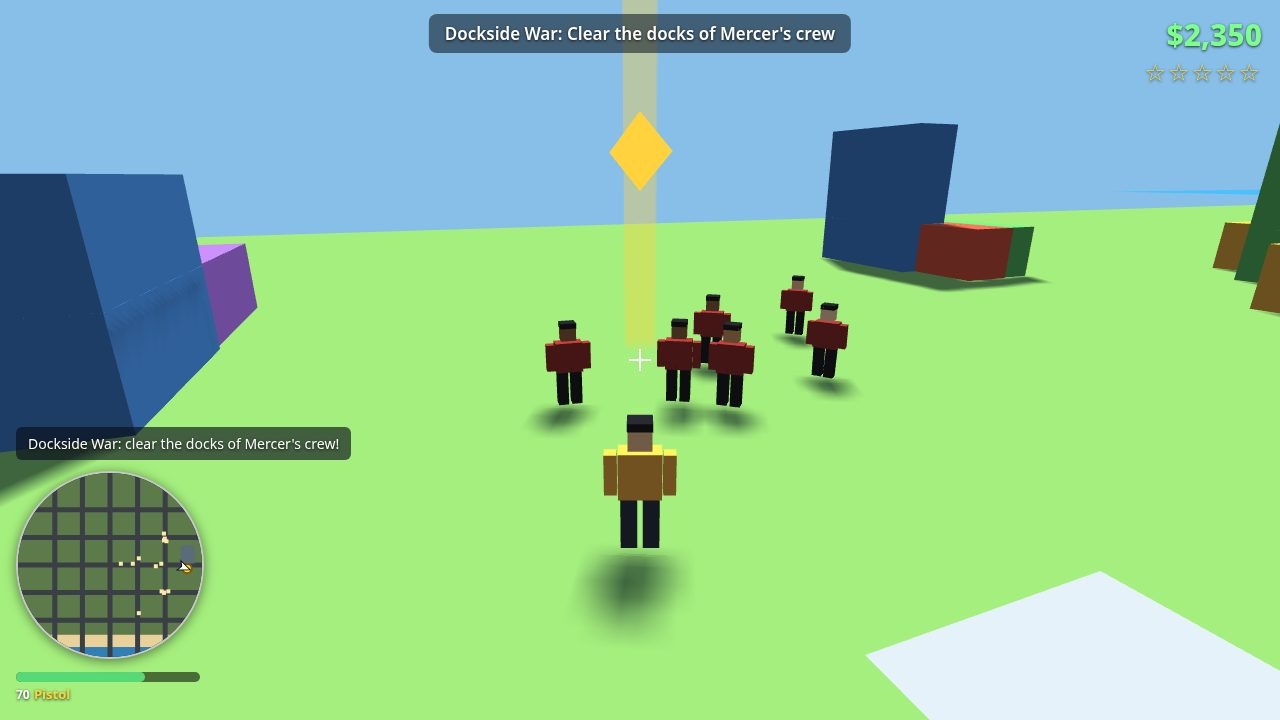
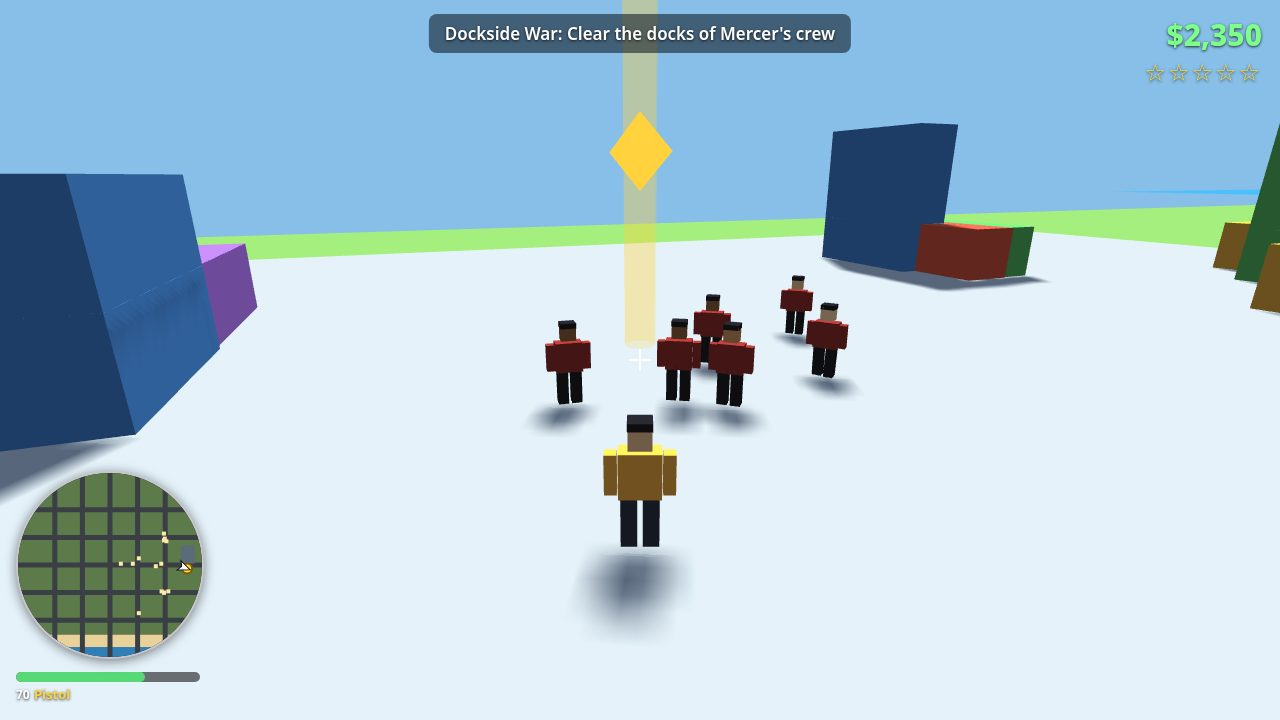
Polish: move mission feed clear of minimap; concrete docks apron
- HUD feed now sits 300px from the viewport bottom (was 260px), leaving a
  51px gap above the minimap instead of touching its top edge.
- Docks yard gets a concrete-grey apron (56x120, reuses sidewalk material)
  under the warehouse and containers, east of the last road.
- Retook screenshots/4-mission.jpg (?shot=mission&seed=7).

diff --git a/game/src/city.js b/game/src/city.js
@@ -190,7 +190,11 @@ export function createCity(scene, seed) {
   roof.rotation.y = Math.PI / 4; roof.castShadow = true; scene.add(roof);
   colliders.push({ minX: locations.safehouse.x - 6, maxX: locations.safehouse.x + 6, minZ: locations.safehouse.z - 5, maxZ: locations.safehouse.z + 5 });
 
-  // Docks: warehouse + stacked containers on the east edge.
+  // Docks: concrete apron under the warehouse and containers, so the docks read as a
+  // working port instead of grass. East of the last road (x=156), so it covers no road.
+  const docksApron = new THREE.Mesh(new THREE.PlaneGeometry(56, 120), walkMat);
+  docksApron.rotation.x = -Math.PI / 2; docksApron.position.set(218, 0.02, 0);
+  docksApron.receiveShadow = true; scene.add(docksApron);
   const wareMat = new THREE.MeshLambertMaterial({ color: 0x5a6b7a });
   addBox(wareMat, 214, 7, -40, 24, 14, 30);
   colliders.push({ minX: 202, maxX: 226, minZ: -55, maxZ: -25 });

diff --git a/game/index.html b/game/index.html
@@ -25,7 +25,7 @@
   #hud-health-text { font-size: 12px; font-weight: 700; }
   #hud-weapon { font-size: 13px; font-weight: 700; color: #ffd23e; margin-top: 2px; }
   #hud-speed { position: absolute; right: 20px; bottom: 18px; font-size: 34px; font-weight: 800; }
-  #hud-feed { position: absolute; left: 16px; bottom: 260px; max-width: 420px; }
+  #hud-feed { position: absolute; left: 16px; bottom: 300px; max-width: 420px; }
   .feed-item { background: rgba(10,16,28,.65); padding: 7px 12px; border-radius: 6px; margin-top: 6px; font-size: 14px; }
   #hud-crosshair { position: absolute; left: 50%; top: 50%; width: 22px; height: 22px; margin: -11px 0 0 -11px; }
   #hud-crosshair::before, #hud-crosshair::after { content: ""; position: absolute; background: #fff; }
